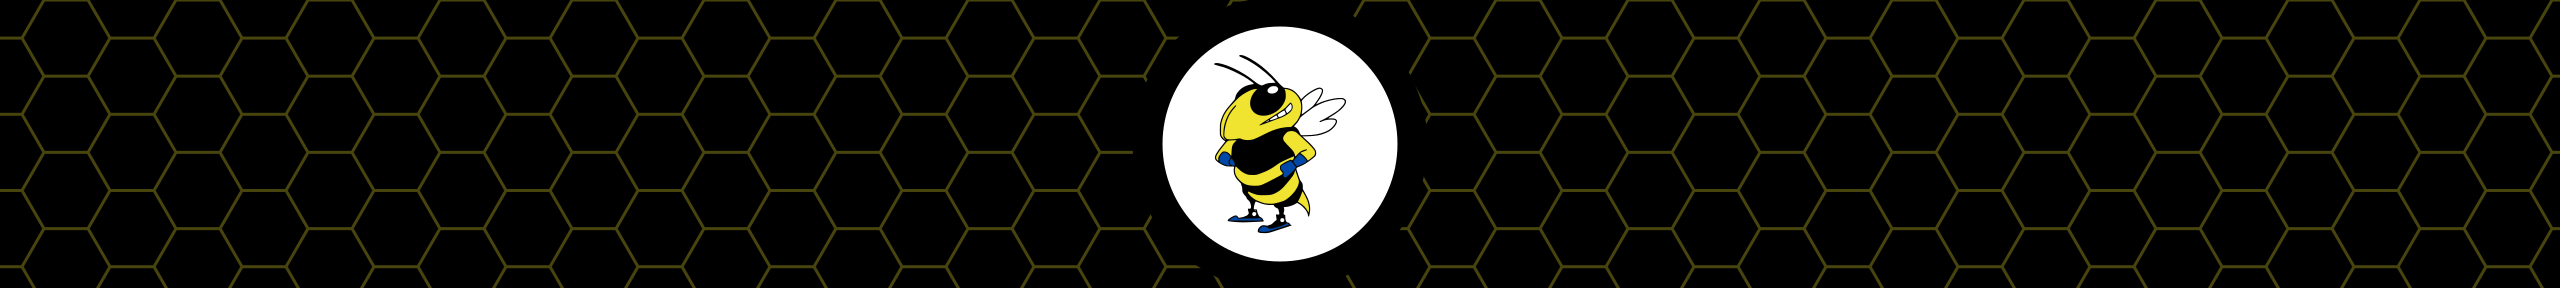
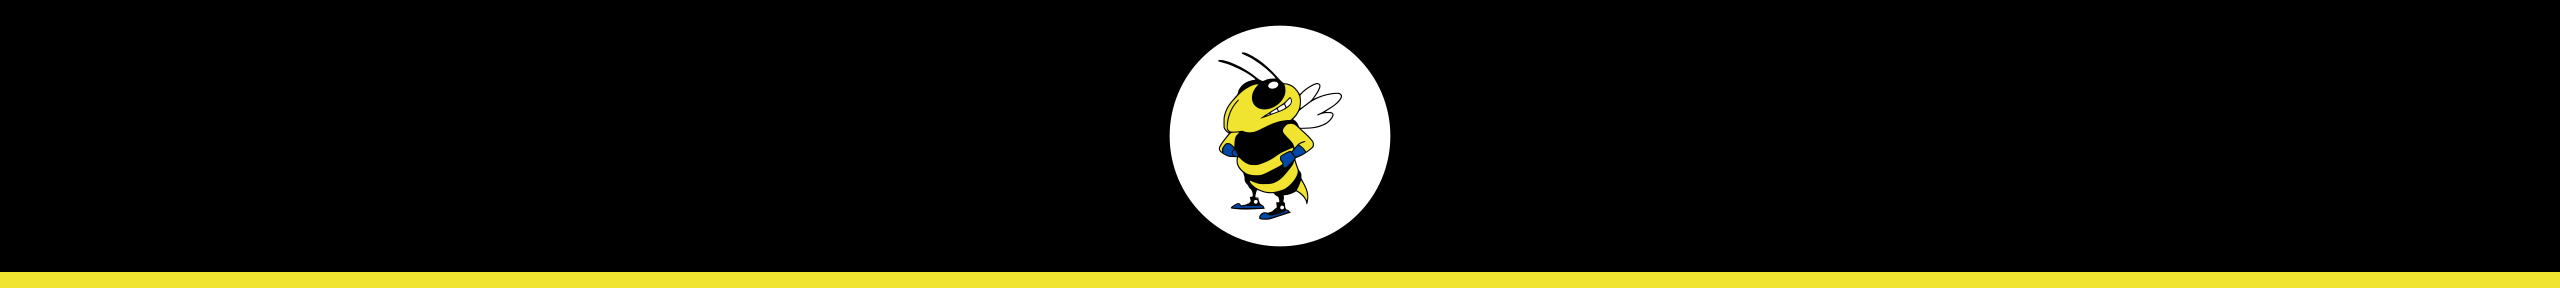
Drive themes: drop the honeycomb, use the masthead's lemon rule
F7 rules out hive and honeycomb motifs: Buzz is a yellow jacket, not a
honeybee. Both themes are now a flat ground (brand blue, or black for
PTA Vault) with Buzz in the site's disc over the masthead's lemon rule.

diff --git a/assets/brand/README.md b/assets/brand/README.md
@@ -11,7 +11,7 @@ marks, not PTA-specific marks; see "Open question" below.
 | `workspace-logo.png` | **Generated, do not edit by hand.** Google Workspace organization logo: Buzz in the site's disc beside a BLACKSHEAR / PTA wordmark in Bevan, white on the black header band. 320×132, about 12 KB, which is Google's required size. | Uploaded in Admin console → Account → Account settings → Personalization. It works on Google's light header and in dark themes. Regenerate with `node scripts/make-workspace-logo.mjs` after one `npm run build`, which puts Bevan in Astro's font cache. |
 | `buzz-profile-color.jpg` | **Generated.** Account photo for `hello@`, the PTA's public mailbox: color Buzz in the site's disc on brand blue. 800×800 JPEG, about 60 KB. | Google crops account photos to a circle, so the disc sits inside that circle with a blue band around it; it still reads at 32px. The black-and-white `buzz-mascot.jpg` is the break-glass account's photo, which keeps the two easy to tell apart. Same generator as the logo. |
 | `workspace-logo-transparent.png` | **Generated.** The same lockup in black on transparent. | Lighter on the default light header, but the type disappears in dark themes. Kept as the alternative only. |
-| `drive-theme-documents.png`, `drive-theme-vault.png` | **Generated.** Shared Drive themes: color Buzz in the site's disc, centered on a honeycomb band, brand blue for the documents drive and black with yellow for *PTA Vault*. 2560×288, Google's 80:9 shape at twice its 1280×144 minimum. | Set from each drive's name → *Change theme* → *Create custom theme*, after uploading the image to Drive. No words, because Drive shows the drive's name beside the theme. Regenerate with `node scripts/make-drive-themes.mjs` (B35 in `TASKS.md`). |
+| `drive-theme-documents.png`, `drive-theme-vault.png` | **Generated.** Shared Drive themes: color Buzz in the site's disc, centered on brand blue for the documents drive and on black for *PTA Vault*, each over the masthead's lemon rule. No honeycomb, because Buzz is a yellow jacket, not a honeybee (F7). 2560×288, Google's 80:9 shape at twice its 1280×144 minimum. | Set from each drive's name → *Change theme* → *Create custom theme*, after uploading the image to Drive. No words, because Drive shows the drive's name beside the theme. Regenerate with `node scripts/make-drive-themes.mjs` (B35 in `TASKS.md`). |
 | `logo-original-vector.pdf` | Full original crest - color Buzz with an artist's palette on an open book, color wheel, motto ring, blue banner. **Vector, 810×810.** | The only vector file we have. Contains a raster mascot XObject, so it's partially vector. Fonts: **Hussar Bold** and **Sriracha** (both open-source). Sriracha was used by the Jacket theme, which was cut on 2026-08-31; the observation is kept because it is the only record of what the original logo is set in. |
 
 ## Palette

diff --git a/TASKS.md b/TASKS.md
@@ -266,7 +266,7 @@
 - [x] **B34**: An all-accounts group, `all@`, with the parents' calendar shared to it - `JON` - **✅ Group created 2026-10-06:** "All Blackshear PTA Accounts" (`all@`). Its member is *All users in the organization* (Members → Add members → **Advanced**), so every current and future PTA account is in it automatically and leavers drop out; suspended accounts stay in but get no mail. Owners: Communications, the President and the break-glass account. It exists so every PTA account can see the Blackshear Parents calendar without anyone being added one by one ([B27](#google-workspace-for-nonprofits)). **✅ Calendar shared with `all@` (*See event details*) 2026-10-15**, replacing an entry first typed as `everyone@`, an address that does not exist. Access settings confirmed: only owners and managers post, no external members, and a test message from outside was refused. **Keep posting limited to owners and managers**, which is Google's own advice for organization-wide groups, because it also works as a mailing list to every PTA account. Members get an email with a link to add the calendar, and new accounts get one within about an hour of being created
 - [~] **B35**: Themes for both Shared Drives - `CLAUDE` + `JON` - A banner for each drive, from the PTA's own brand, so the two are easy to tell apart. Asked for by Jon 2026-10-21, after Google refused the 800-pixel `hello@` photo: a theme must be at least 1280 × 144 pixels.
 
-  1. [x] `CLAUDE` makes them (2026-10-21): [`assets/brand/drive-theme-documents.png`](assets/brand/drive-theme-documents.png), Buzz on brand blue with a faint honeycomb, and [`assets/brand/drive-theme-vault.png`](assets/brand/drive-theme-vault.png), Buzz on black with a yellow one. Both are 2560 × 288, Google's 80:9 shape at twice the minimum, built by `scripts/make-drive-themes.mjs`.
+  1. [x] `CLAUDE` makes them (2026-10-21): [`assets/brand/drive-theme-documents.png`](assets/brand/drive-theme-documents.png), Buzz on brand blue, and [`assets/brand/drive-theme-vault.png`](assets/brand/drive-theme-vault.png), Buzz on black, each with the lemon rule from the foot of the site's masthead. No honeycomb: Buzz is a yellow jacket, not a honeybee ([F7](#f7)). Both are 2560 × 288, Google's 80:9 shape at twice the minimum, built by `scripts/make-drive-themes.mjs`.
   2. [ ] Upload both images to `communications@`'s My Drive. The theme picker only chooses from images already in Drive.
   3. [ ] Open each drive → click its name at the top → **Change theme** → **Create custom theme** → pick its image → **Select**. Keep the crop covering the whole image.
   4. [ ] Check that the small square beside each drive's name shows Buzz. If the crop cuts him off, `CLAUDE` moves him.
